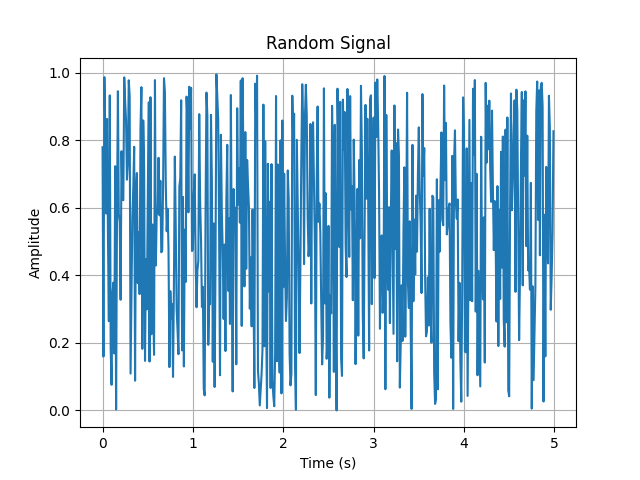
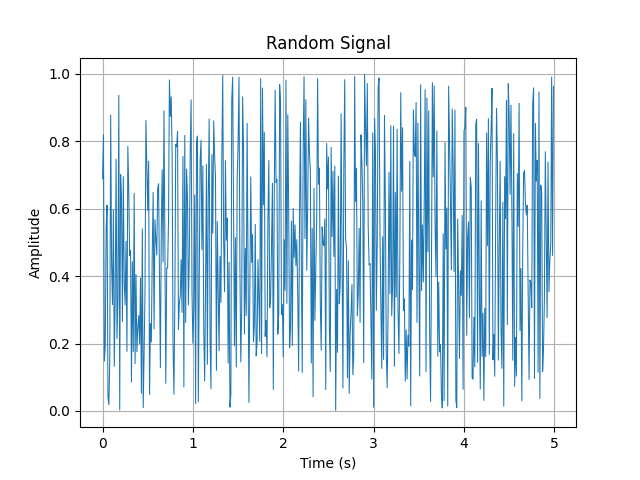
group tasks

diff --git a/lab1/task1.3-1.4.py b/lab1/task1.3-1.4.py
@@ -1,0 +1,29 @@
+import matplotlib.pyplot as plt
+import random
+
+
+def main():
+    Ts = 0.001
+    t = [round(i * Ts, 3) for i in range(int(5 / Ts))]
+    x2 = [random.random() for _ in range(len(t))]
+
+    plt.plot(t, x2, linewidth=0.25)
+    plt.grid()
+    plt.title("Random Signal")
+    plt.xlabel("Time (s)")
+    plt.ylabel("Amplitude")
+    plt.savefig("plots/task1.3.png")
+
+    plt.clf()
+
+    t = [round(i * Ts, 3) for i in range(int(1 / Ts))]
+    plt.hist(x2, t)
+    plt.grid()
+    plt.title("Random Signal")
+    plt.xlabel("Time (s)")
+    plt.ylabel("Amplitude")
+    plt.savefig("plots/task1.4.png")
+
+
+if __name__ == "__main__":
+    main()

diff --git a/lab1/task1.1-1.2.py b/lab1/task1.1-1.2.py
@@ -4,9 +4,19 @@ import random
 
 def main():
     Ts = 0.01
-    t = [round(i * Ts, 2) for i in range(int(1 / Ts))]
+    t = [round(i * Ts, 2) for i in range(int(5 / Ts))]
     x1 = [random.random() for _ in range(len(t))]
 
+    plt.plot(t, x1, linewidth=0.75)
+    plt.grid()
+    plt.title("Random Signal")
+    plt.xlabel("Time (s)")
+    plt.ylabel("Amplitude")
+    plt.savefig("plots/task1.1.png")
+
+    plt.clf()
+
+    t = [round(i * Ts, 2) for i in range(int(1 / Ts))]
     plt.hist(x1, t)
     plt.grid()
     plt.title("Random Signal")
